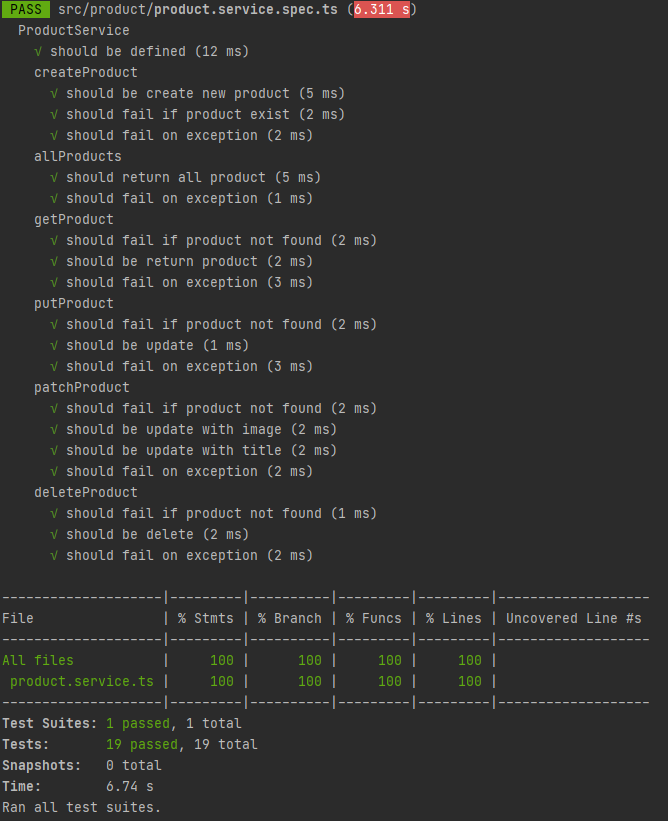
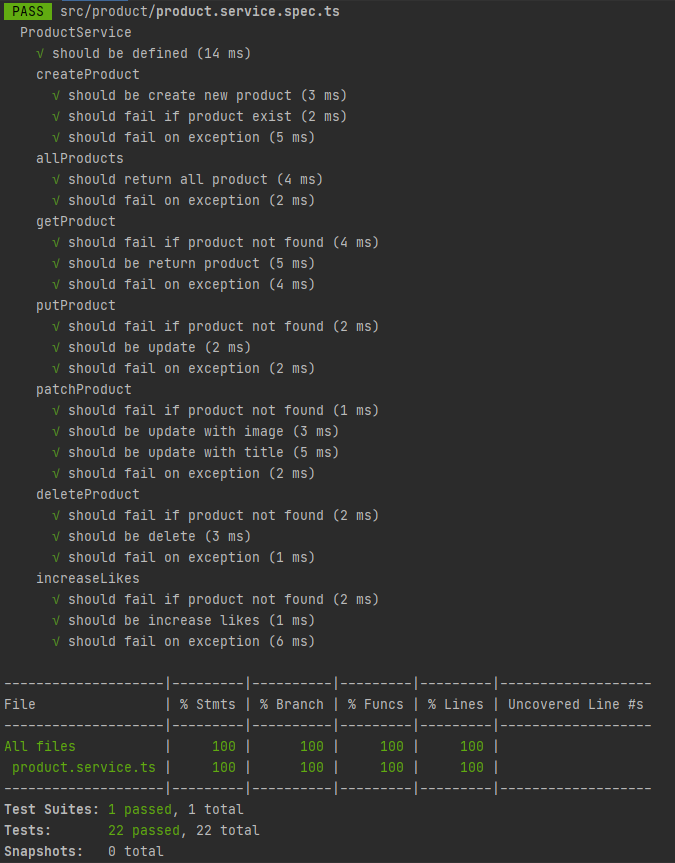
:sparkles: like with HTTPService

diff --git a/admin/src/product/product.service.spec.ts b/admin/src/product/product.service.spec.ts
@@ -309,4 +309,49 @@ describe('ProductService', () => {
       });
     });
   });
+
+  describe('increaseLikes', () => {
+    it('should fail if product not found', async () => {
+      productRepository.findOne.mockResolvedValue(undefined);
+
+      const result = await service.increaseLikes(productId);
+      expect(result).toEqual({
+        ok: false,
+        error: 'Product not found',
+      });
+    });
+
+    it('should be increase likes', async () => {
+      const increaseDataTarget = {
+        title: 'dummy',
+        image: 'already exist!',
+        likes: 0,
+      };
+      const increasedDataTarget = {
+        title: 'dummy',
+        image: 'already exist!',
+        likes: 1,
+      };
+      productRepository.findOne.mockResolvedValue(increaseDataTarget);
+      productRepository.save.mockResolvedValue(increasedDataTarget);
+      const result = await service.increaseLikes(productId);
+
+      expect(productRepository.findOne).toHaveBeenCalledTimes(1);
+      expect(productRepository.findOne).toHaveBeenCalledWith({ id: productId });
+      expect(productRepository.save).toHaveBeenCalledTimes(1);
+      expect(productRepository.save).toHaveBeenCalledWith(increasedDataTarget);
+      expect(result).toEqual({
+        ok: true,
+      });
+    });
+
+    it('should fail on exception', async () => {
+      productRepository.findOne.mockRejectedValue(new Error());
+      const result = await service.increaseLikes(productId);
+      expect(result).toEqual({
+        ok: false,
+        error: 'Could not increase Likes',
+      });
+    });
+  });
 });

diff --git a/main/src/product/product.controller.ts b/main/src/product/product.controller.ts
@@ -1,14 +1,32 @@
-import { Controller, Get } from '@nestjs/common';
+import { Controller, Get, HttpService, Param, Post } from '@nestjs/common';
 import { ProductService } from './product.service';
 import { EventPattern } from '@nestjs/microservices';
 
 @Controller('products')
 export class ProductController {
-  constructor(private productService: ProductService) {}
+  constructor(
+    private productService: ProductService,
+    private httpService: HttpService,
+  ) {}
 
   @Get()
   allProducts() {
     return this.productService.all();
+  }
+
+  @Post(':id/like')
+  async like(@Param('id') id: number) {
+    const product = await this.productService.findOne(id);
+
+    this.httpService
+      .post(`http://localhost:8000/api/products/${id}/like`, {})
+      .subscribe(res => {
+        console.log(res);
+      });
+
+    return this.productService.updatedProduct(id, {
+      likes: product.likes + 1,
+    });
   }
 
   @EventPattern('product_created')

diff --git a/admin/src/product/product.service.ts b/admin/src/product/product.service.ts
@@ -164,4 +164,28 @@ export class ProductService {
       };
     }
   }
+
+  async increaseLikes(id: number): Promise<CoreOutput> {
+    try {
+      const product = await this.products.findOne({ id });
+
+      if (!product) {
+        return {
+          ok: false,
+          error: 'Product not found',
+        };
+      }
+
+      product.likes = product.likes + 1;
+      await this.products.save(product);
+      return {
+        ok: true,
+      };
+    } catch {
+      return {
+        ok: false,
+        error: 'Could not increase Likes',
+      };
+    }
+  }
 }

diff --git a/main/src/product/product.module.ts b/main/src/product/product.module.ts
@@ -1,4 +1,4 @@
-import { Module } from '@nestjs/common';
+import { HttpModule, Module } from '@nestjs/common';
 import { ProductController } from './product.controller';
 import { ProductService } from './product.service';
 import { MongooseModule } from '@nestjs/mongoose';
@@ -7,6 +7,7 @@ import { Product, ProductSchema } from './product.model';
 @Module({
   imports: [
     MongooseModule.forFeature([{ name: Product.name, schema: ProductSchema }]),
+    HttpModule,
   ],
   controllers: [ProductController],
   providers: [ProductService],

diff --git a/admin/src/product/product.controller.ts b/admin/src/product/product.controller.ts
@@ -84,4 +84,9 @@ export class ProductController {
     this.client.emit('product_deleted', id);
     return deleteProductOutput;
   }
+
+  @Post(':id/like')
+  async like(@Param('id') id: number): Promise<CoreOutput> {
+    return this.productService.increaseLikes(id);
+  }
 }

diff --git a/admin/src/app.module.ts b/admin/src/app.module.ts
@@ -1,4 +1,4 @@
-import { Module } from '@nestjs/common';
+import { HttpModule, Module } from '@nestjs/common';
 import * as Joi from 'joi';
 import { ConfigModule } from '@nestjs/config';
 import { TypeOrmModule } from '@nestjs/typeorm';

diff --git a/main/src/app.module.ts b/main/src/app.module.ts
@@ -1,4 +1,4 @@
-import { Module } from '@nestjs/common';
+import { HttpModule, Module } from '@nestjs/common';
 import { MongooseModule } from '@nestjs/mongoose';
 import { ProductModule } from './product/product.module';
 

diff --git a/main/src/product/product.model.ts b/main/src/product/product.model.ts
@@ -15,7 +15,7 @@ export class Product {
   image: string;
 
   @Prop()
-  likes: string;
+  likes: number;
 }
 
 export const ProductSchema = SchemaFactory.createForClass(Product);
